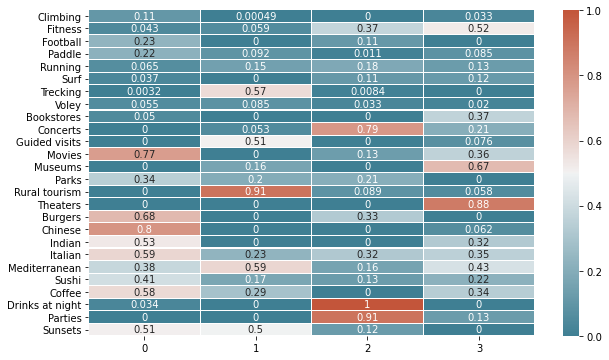
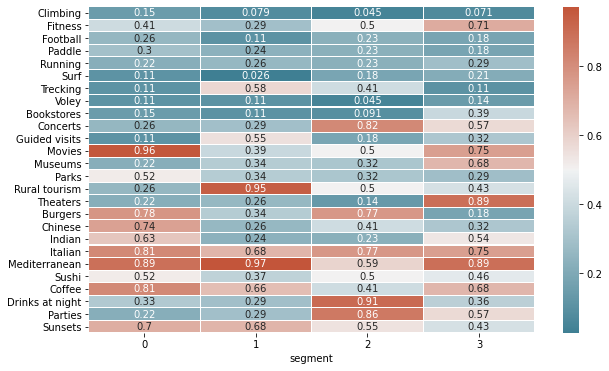
Change Heatmap NMF

diff --git a/_posts/2021-10-29-nomads-api-heroku.md b/_posts/2021-10-29-nomads-api-heroku.md
@@ -36,10 +36,11 @@ En la siguiente imagen podemos ver un gráfico que representa la matriz de compo
 ![Heatmap valores de los componentes](/assets/images/nomads/NMFComponentValuesHeatmap.png)
 
 Si escogemos los valores más altos para cada segmento nos hacemos una buena idea los intereses asociados:
-- Segmento 0: Chinese food, Burgers, Movies, Italian food, Coffee, Indian food
-- Segmento 1: Rural tourism, Mediterranean food, Trecking, Visitas guiadas
-- Segmento 2: Drinks at nigth, Parties, Concerts
-- Segmento 3: Theaters, Museums, Fitness, Bookstores, Movies
+
+- Segmento 0: Movies, Mediterranean food, Italian food, Coffee
+- Segmento 1: Mediterranean food, Rural tourism
+- Segmento 2: Drinks at night, Parties, Concerts
+- Segmento 3: Theaters, Mediterranean food
 
 El preprocesado de la encuesta y el entranado del modelo pueden verse en este notebook: [NomDig_NMF.ipynb](https://github.com/casiopa/nomads_cluster_api/blob/main/model/NomDig_NMF.ipynb)
 
